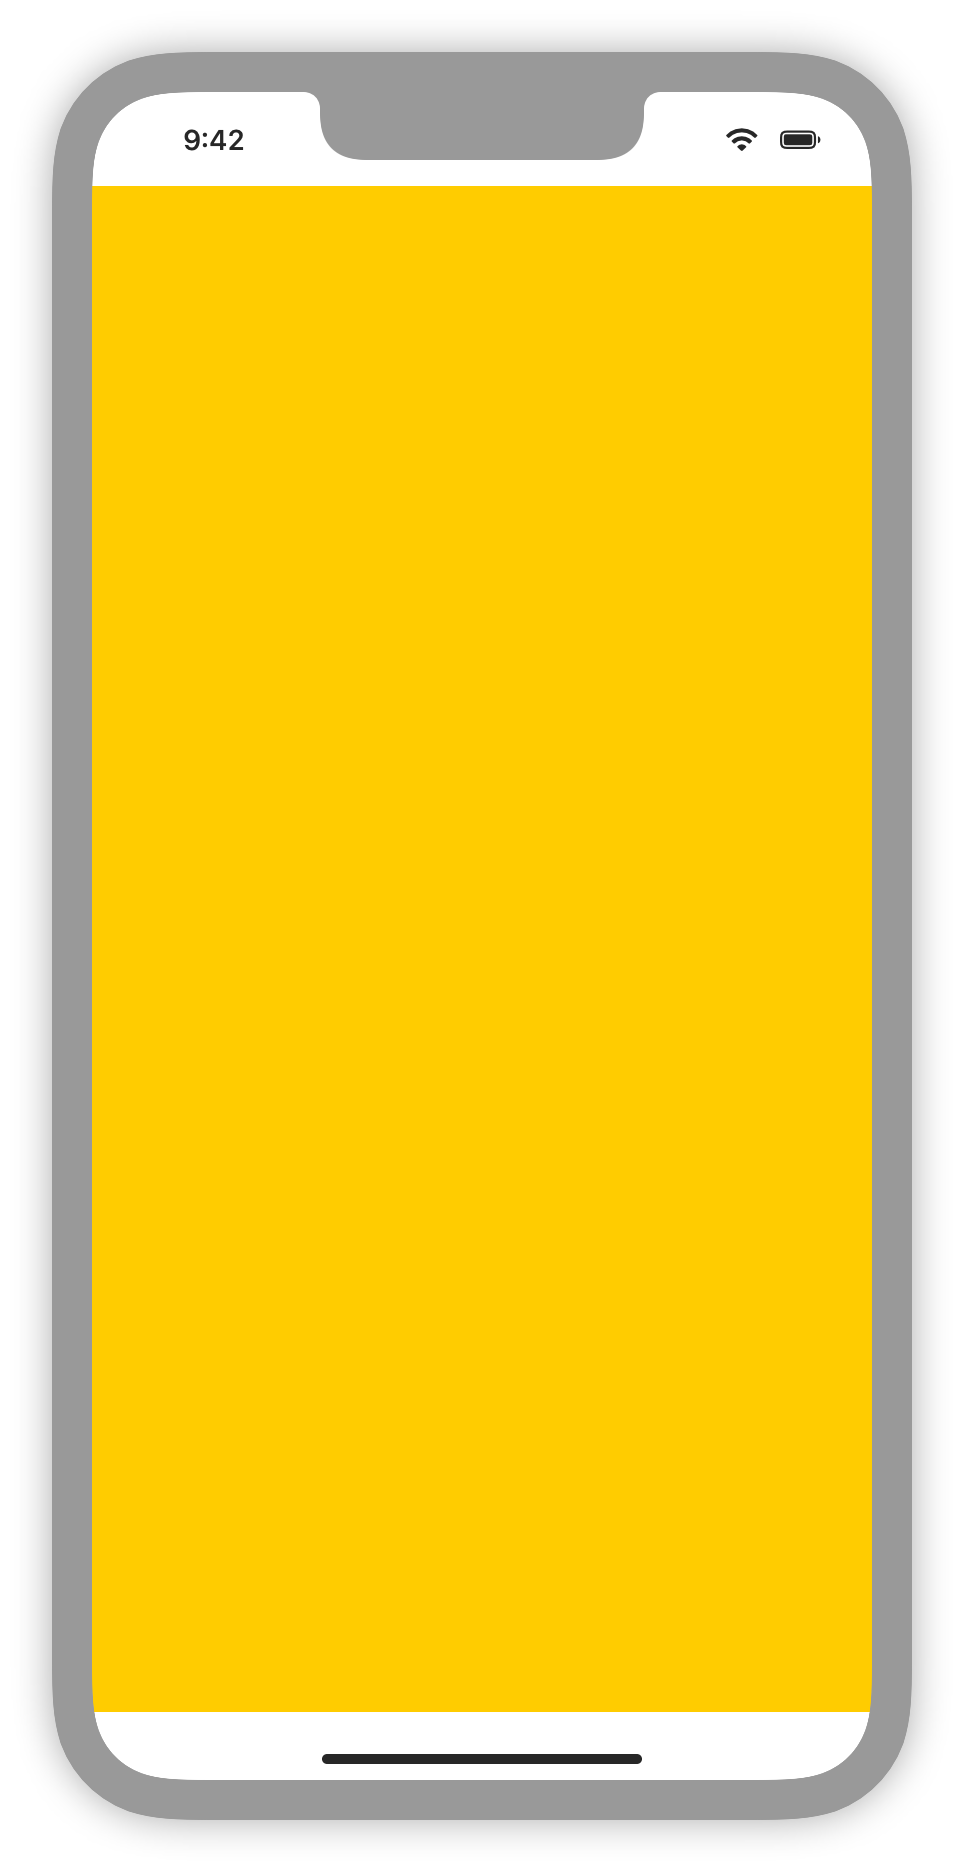
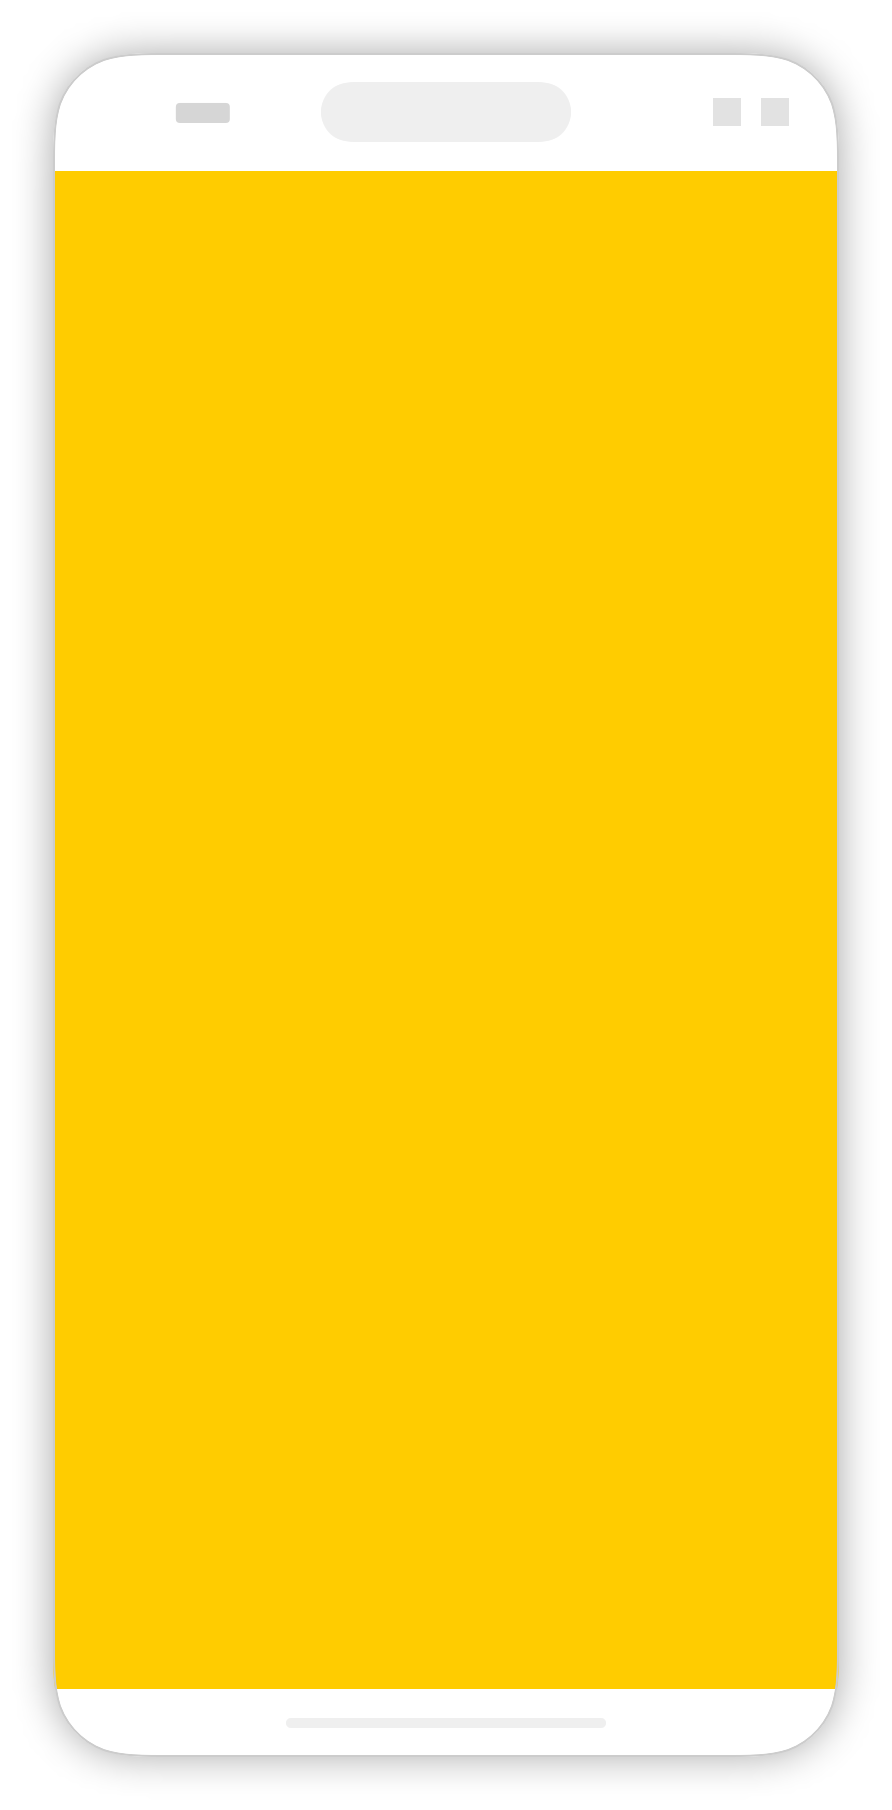
Modern phone

Changed region(s): [[0.0303, 0.0, 0.9686, 0.9901]]

diff --git a/Sources/Chris/Posts/FakeSimulator.swift b/Sources/Chris/Posts/FakeSimulator.swift
@@ -1,38 +1,36 @@
-//
-//  ContentView.swift
-//  FakeSimulator
-//
-//  Created by Chris Eidhof on 05.10.22.
-//
-
 import SwiftUI
 
 struct Device {
     var size: CGSize
     var bezelWidth: CGFloat = 20
-    var topSafeAreaHeight: CGFloat = 47
+    var topSafeAreaHeight: CGFloat = 59
     var bottomSafeAreaHeight: CGFloat = 34
+    var dynamicIsland: Bool = false
+    var outline: Bool = false
+    var redactedTopBar = false
 
     var safeAreaSize: CGSize {
         .init(width: size.width, height: size.height-topSafeAreaHeight-bottomSafeAreaHeight)
     }
 
     static let iPhone13 = Device(size: .init(width: 390, height: 844))
+    static let iPhone14 = Device(size: .init(width: 393, height: 852), topSafeAreaHeight: 59, bottomSafeAreaHeight: 34, dynamicIsland: true)
 }
 
 struct PhoneModifier: ViewModifier {
     @Environment(\.colorScheme) var parentColorScheme
     var device: Device
     var colorScheme: ColorScheme = .light
-    var bluePrint: Bool = false
     var date: Date?
+    var accessoryColor: Color  = Color(white: 0.8)
 
     var deviceShape: RoundedRectangle {
         RoundedRectangle(cornerRadius: 40, style: .continuous)
     }
 
-    var bezelColor: Color {
-        parentColorScheme == .light ? Color(white: 0.6) : Color(white: 0.3)
+    var bezelColor: Color?
+    private var bezelColor_: Color {
+        bezelColor ?? (parentColorScheme == .light ? Color(white: 0.6) : Color(white: 0.3))
     }
 
     var topBar: some View {
@@ -46,9 +44,13 @@ struct PhoneModifier: ViewModifier {
                     .padding(.leading, 24)
                     .frame(maxWidth: .infinity)
             }
-            Notch()
-                .frame(maxHeight: .infinity, alignment: .top)
-                .foregroundColor(bezelColor)
+            if device.dynamicIsland {
+                dynamicIsland
+            } else {
+                Notch()
+                    .frame(maxHeight: .infinity, alignment: .top)
+                    .foregroundColor(bezelColor_)
+            }
             HStack {
                 Image(systemName: "wifi")
                 Image(systemName: "battery.100")
@@ -59,56 +61,71 @@ struct PhoneModifier: ViewModifier {
         .font(.system(size: 14))
     }
 
+    @ViewBuilder var dynamicIsland: some View {
+        let capsule = Capsule(style: .continuous)
+        ZStack {
+            if device.outline {
+                capsule.fill(Material.regular)
+            } else {
+                capsule .fill(bezelColor_)
+            }
+        }.frame(width: 125, height: 30)
+    }
+
+    @ViewBuilder
     var homeIndicator: some View {
-        Capsule(style: .continuous)
-            .frame(width: 160, height: 5)
-            .frame(height: 13, alignment: .top)
+        let capsule = Capsule(style: .continuous)
+        ZStack {
+            if device.outline {
+                capsule
+                    .fill(Material.regular)
+
+            } else {
+                capsule
+            }
+        }
+        .frame(width: 160, height: 5)
+        .frame(height: 13)
     }
 
     func body(content: Content) -> some View {
-        content
+        VStack {
+            content
+        }
             .frame(maxWidth: .infinity, maxHeight: .infinity)
             .safeAreaInset(edge: .top, spacing: 0) {
-                topBar
+                ZStack {
+                    if device.redactedTopBar {
+                        topBar.redacted(reason: .placeholder)
+                    } else {
+                        topBar
+                    }
+                }
                     .frame(height: device.topSafeAreaHeight)
-                    .opacity(bluePrint ? 0 : 1)
             }
             .safeAreaInset(edge: .bottom, spacing: 0) {
                 homeIndicator
-                    .frame(height: device.bottomSafeAreaHeight, alignment: .bottom)
+                    .frame(height: device.bottomSafeAreaHeight)
             }
             .frame(width: device.size.width, height: device.size.height)
             .background {
-                if bluePrint {
-                    deviceShape
-                        .fill(Color.blue.opacity(0.2))
-                } else {
-                    deviceShape
-                        .fill(.background)
-                }
+                deviceShape
+                    .fill(.background)
             }
-            .clipShape(
-                deviceShape.inset(by: bluePrint ? -100 : 0)
-            )
+            .clipShape(deviceShape)
             .overlay {
-                if bluePrint {
-                    deviceShape
-                        .stroke(Color.white, style: .init(lineWidth: 2, dash: [10]))
-                } else {
-                    deviceShape
-                        .inset(by: -device.bezelWidth/2)
-                        .stroke(bezelColor, lineWidth: device.bezelWidth)
-                }
+                deviceShape
+                    .strokeBorder(bezelColor_, lineWidth: device.bezelWidth)
             }
-            .padding(device.bezelWidth)
+            .padding(device.bezelWidth/2)
             .colorScheme(colorScheme)
     }
 }
 
 extension View {
-    func phone(device: Device = .iPhone13, date: Date? = nil) -> some View {
+    func phone(device: Device = .iPhone14, date: Date? = nil, bezelColor: Color? = nil) -> some View {
         buttonStyle(.link)
-            .modifier(PhoneModifier(device: device, date: date))
+            .modifier(PhoneModifier(device: device, date: date, bezelColor: bezelColor))
             .compositingGroup()
     }
 }
@@ -146,19 +163,25 @@ struct Notch: View {
     }
 }
 
-//
-//struct ContentView: View {
-//    var body: some View {
-//        Color.yellow
-//            .edgesIgnoringSafeArea(.all)
-//        .modifier(PhoneModifier(device: .iPhone13))
+extension Device {
+    static var myDevice: Device {
+        var device = Device.iPhone14
+        device.bezelWidth = 1
+        device.outline = true
+        device.redactedTopBar = true
+        return device
+    }
+}
+
+//#Preview {
+//    Text("Hello")
+//        .modifier(PhoneModifier(device: .myDevice, accessoryColor: Color(white: 0.9), bezelColor: Color(white: 0.8)))
+//        .compositingGroup()
 //        .padding()
-//        .background(.blue)
-//    }
 //}
 //
-//struct ContentView_Previews: PreviewProvider {
-//    static var previews: some View {
-//        ContentView()
-//    }
+//#Preview {
+//    Color.yellow
+//        .ignoresSafeArea()
+//        .phone(device: .myDevice)
 //}

diff --git a/Sources/Chris/Posts/SafeArea.swift b/Sources/Chris/Posts/SafeArea.swift
@@ -34,11 +34,35 @@ extension View {
     }
 }
 
+fileprivate struct Read<Value, Content: View>: View {
+    @SwiftUI.Environment(\.self) private var env
+    var keyPath: KeyPath<SwiftUI.EnvironmentValues, Value>
+    var content: (Value) -> Content
+
+    var body: some View {
+        content(env[keyPath: keyPath])
+    }
+
+}
+
+extension View {
+    func readEnvironment<Value, Content: View>(_ keyPath: KeyPath<SwiftUI.EnvironmentValues, Value>, @ViewBuilder _ body: @escaping (Value) -> Content) -> some View {
+        Read(keyPath: keyPath, content: body)
+    }
+}
+
 extension View {
     fileprivate func asPhone() -> some View {
-        phone(date: sampleDate)
-            .shadow(radius: 10)
-            .padding(10)
+        readEnvironment(\.colorScheme) { scheme in
+            let p = phone(device: .myDevice, date: sampleDate, bezelColor: Color(white: 0.8))
+            if scheme == .light {
+                p
+                    .shadow(radius: 10)
+                    .padding(10)
+            } else {
+                p
+            }
+        }
     }
 }
 
